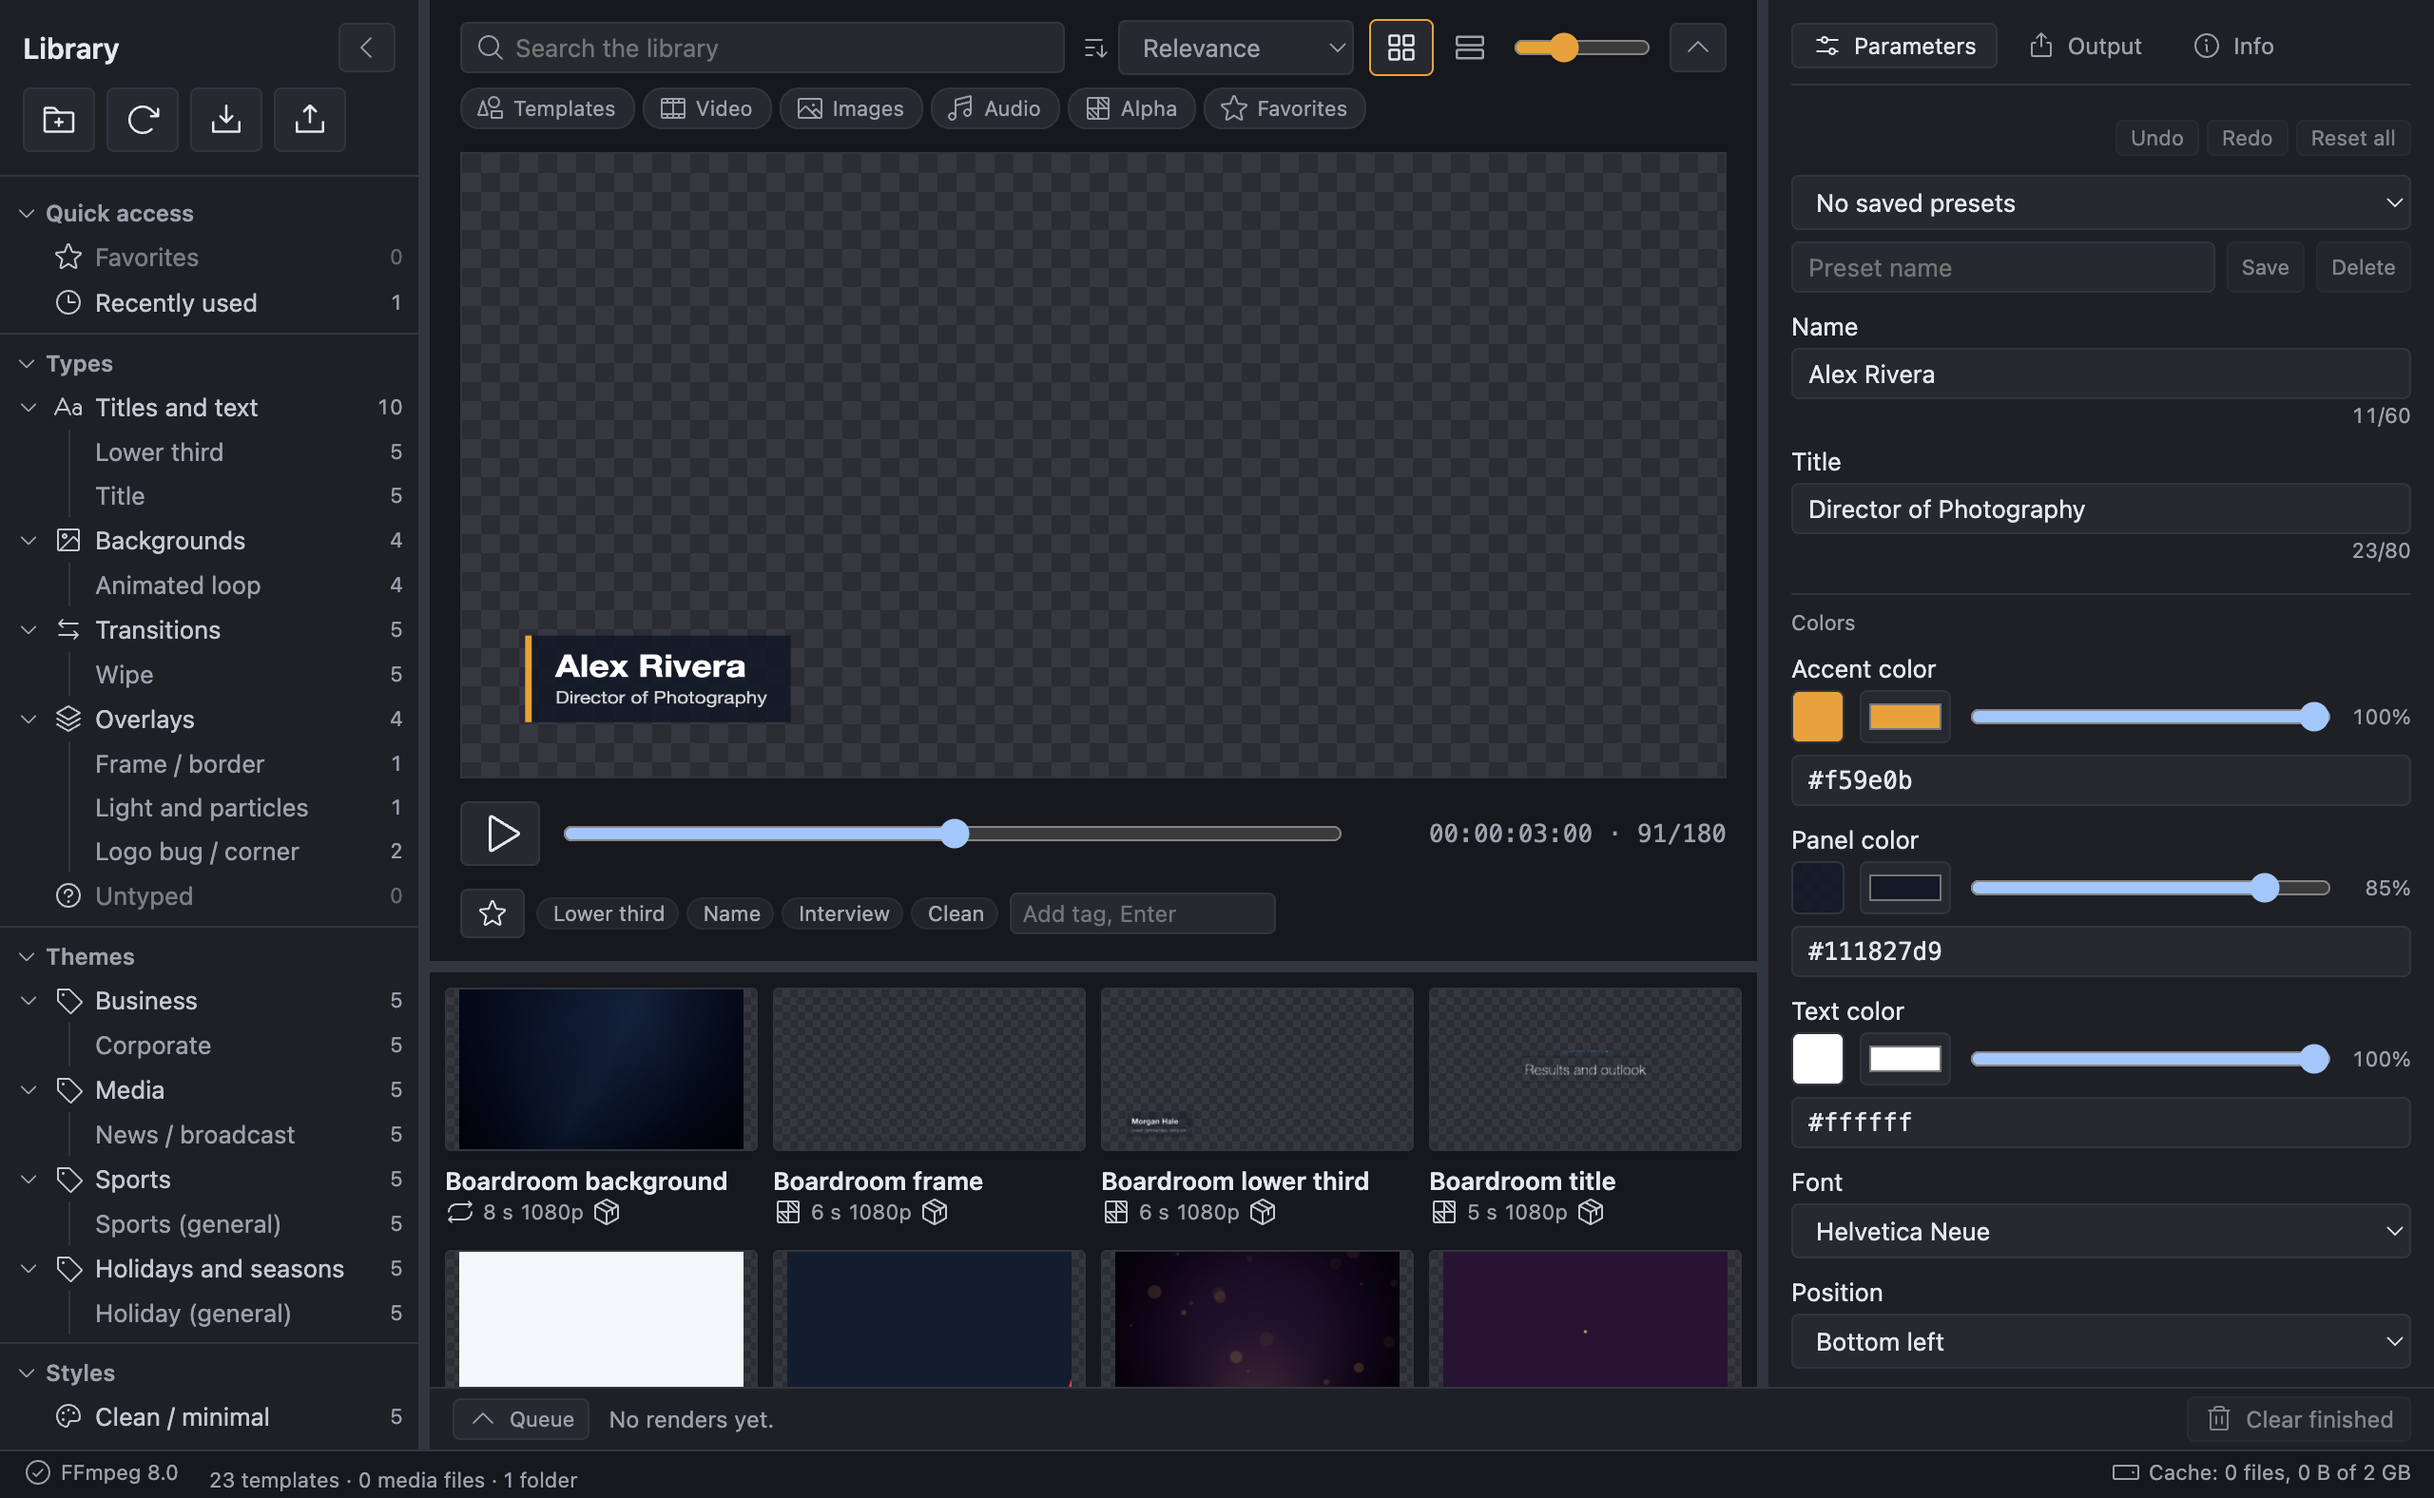
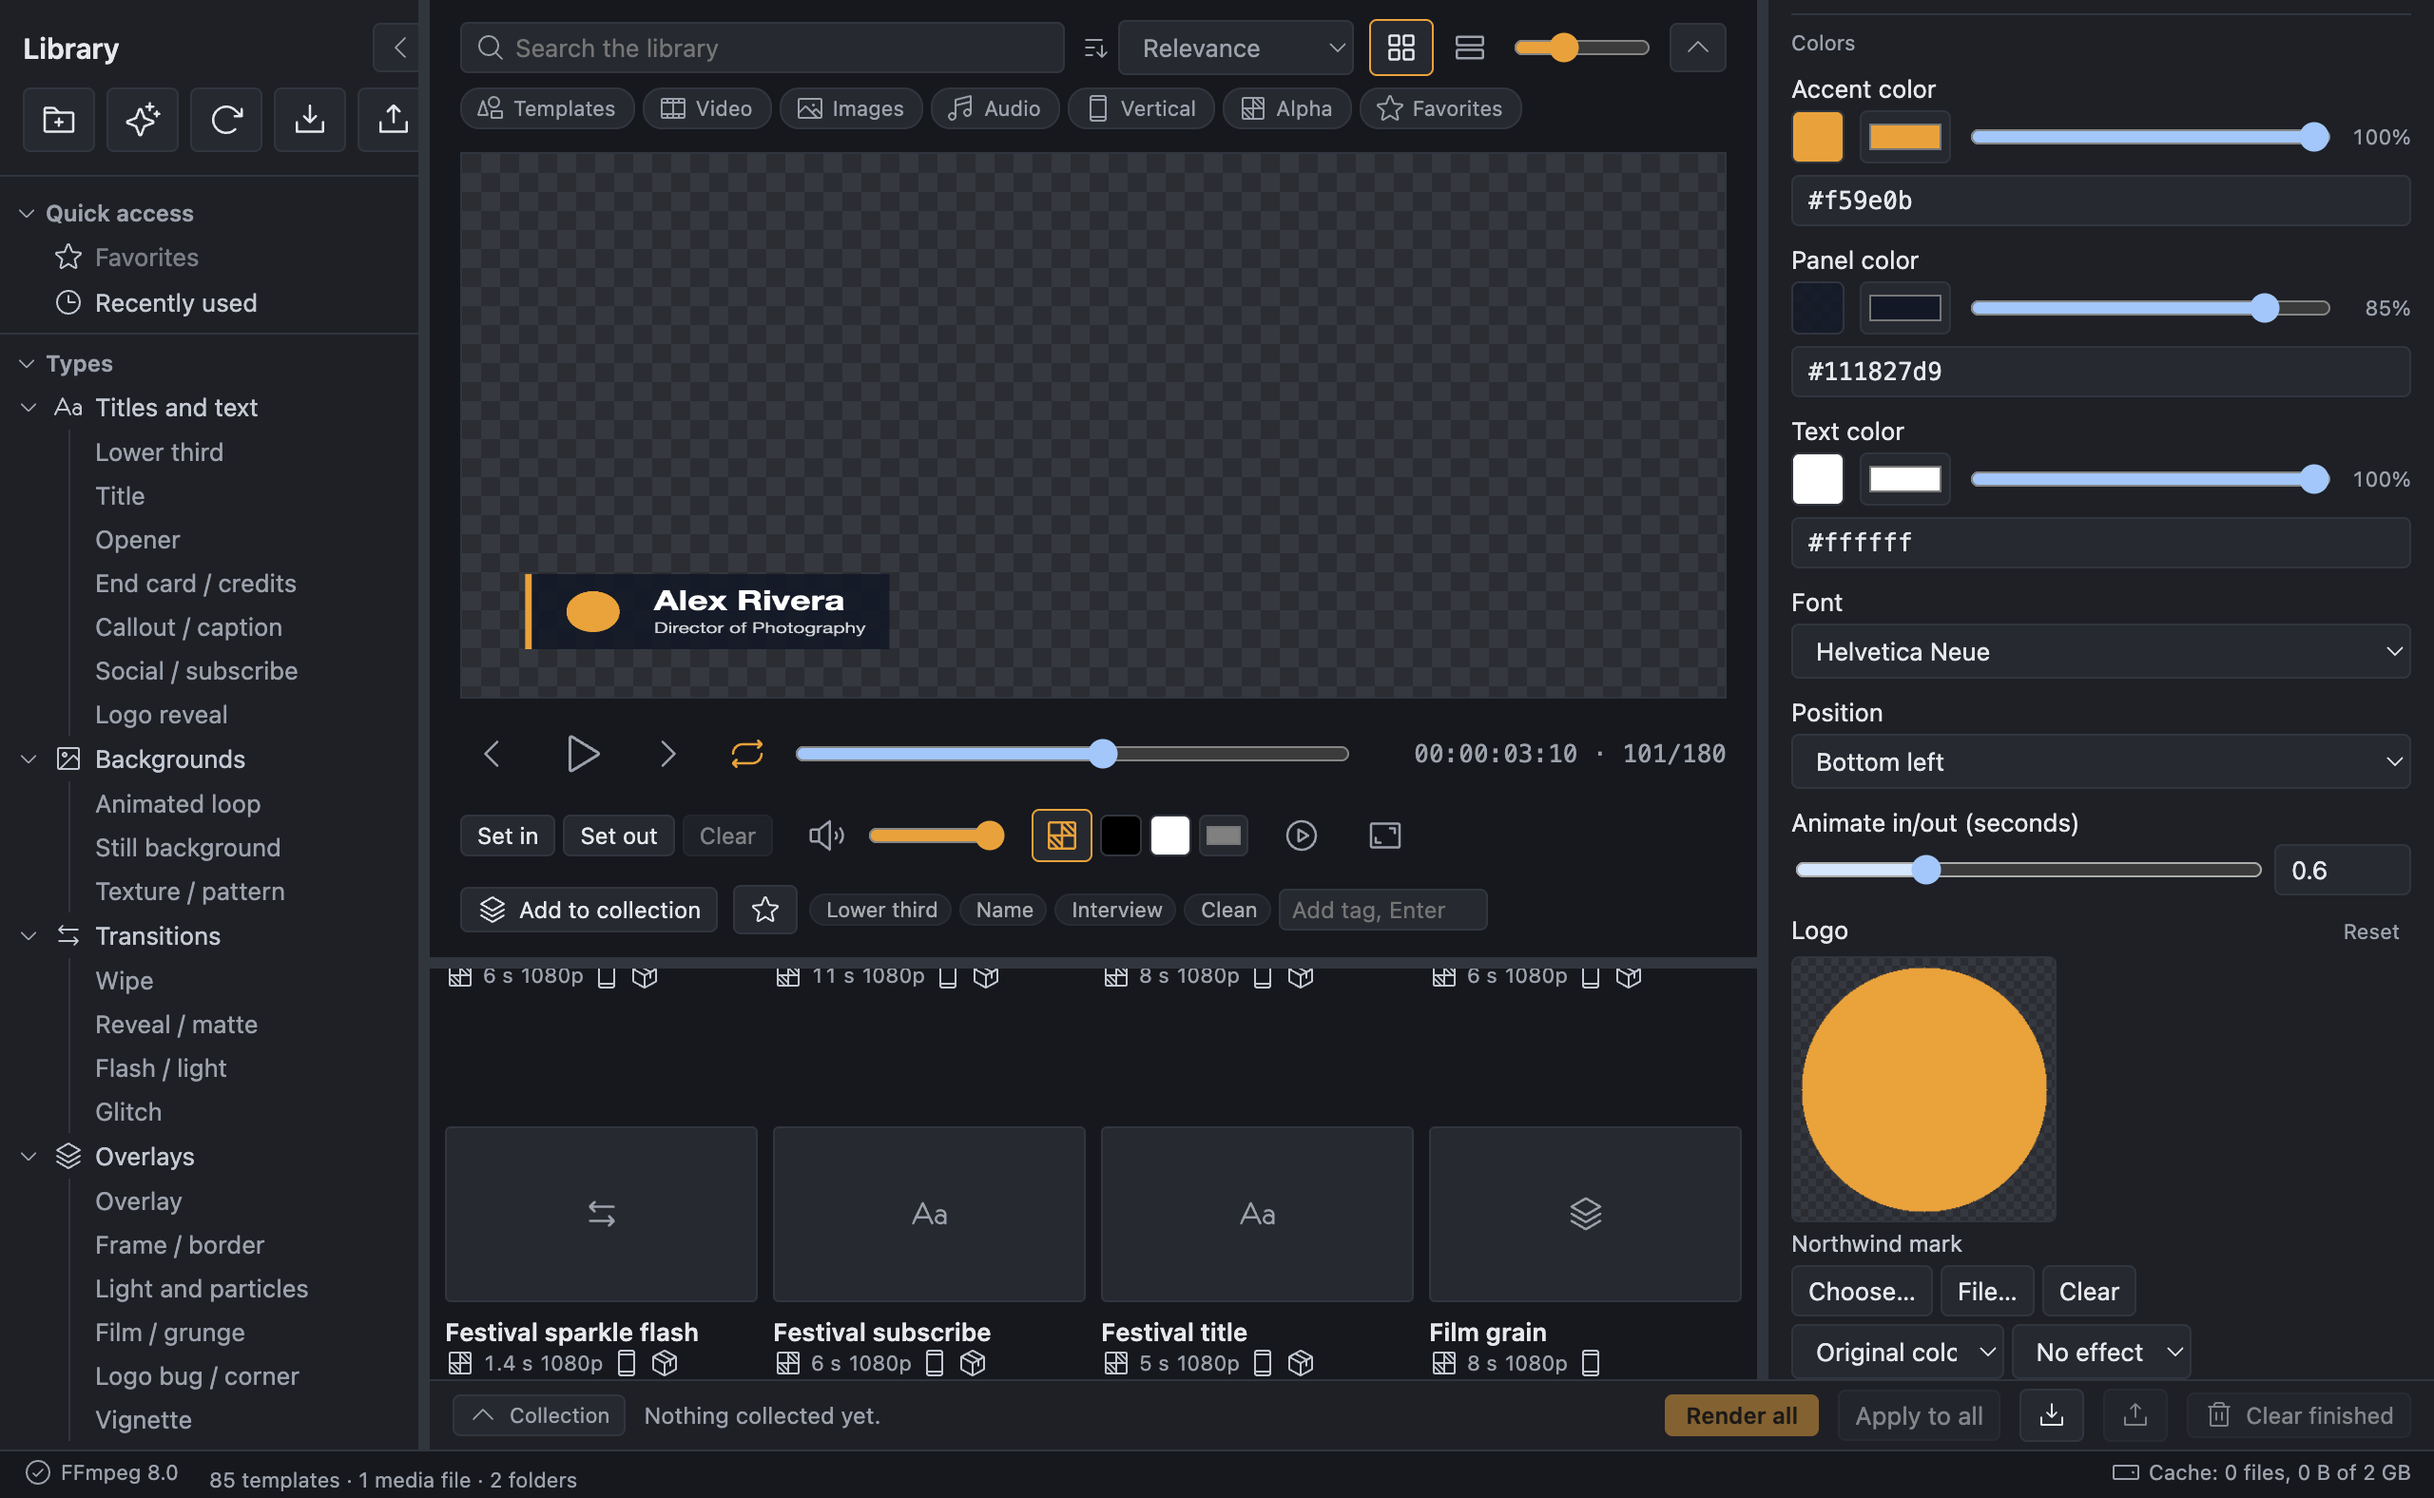
Parameters tab: the image slot field fills its width at the slot's shape
The picture was a fixed 96 x 54 tile alone at the left of a full-width
field. It now fills the field at the slot's own aspect ratio, capped at
140 px tall so a square badge is a square and a wide mark is wide, with
the image's name beneath and the buttons below. The empty state is the
same box, dashed, and clicking it opens the picker. The preview is the
still itself until the library has a poster for it, so it is never a
broken image. The doubled "Logo" group label over the "Logo" field is
gone from every slot. Screenshot retaken at the default inspector width.

Part of #22

diff --git a/src/renderer/inspector-params.ts b/src/renderer/inspector-params.ts
@@ -14,9 +14,10 @@ import { applyPreset, diffFromDefaults } from '../core/param-presets';
 import { saveParamsToEditedCard } from './inspector-output';
 import { resolveParams, type ResolvedParams } from '../core/params';
 import { addRecentColor } from '../core/recent-colors';
-import { IMAGE_EFFECTS, IMAGE_TREATMENTS, sanitizeImageValue, type ImageValue } from '../core/image-slot';
+import { templateDefaultSize } from '../core/aspect';
+import { boxFor, IMAGE_EFFECTS, IMAGE_TREATMENTS, sanitizeImageValue, type ImageValue, type SlotBoxes } from '../core/image-slot';
 import type { MediaEntry } from '../core/library-types';
-import { thumbUrlFor } from '../core/thumbnails';
+import { mediaUrlFor } from '../core/media-url';
 import { stageSetParams } from './stage';
 import { appState, selectedTemplate, slotNotes } from './store';
 
@@ -353,7 +354,7 @@ function inputFor(param: TemplateParameter): HTMLElement {
       return el;
     }
     case 'image':
-      return imageField(sanitizeImageValue(value) ?? null, onChange, { id: param.id, label: param.label });
+      return imageField(sanitizeImageValue(value) ?? null, onChange, { id: param.id, label: param.label, box: param.box });
   }
 }
 
@@ -382,14 +383,27 @@ function publishSlotNotes(): void {
   slotNotes.value = [...slotProblems.values()];
 }
 
-function imageField(initial: ImageValue | null, onChange: (v: ImageValue | null) => void, slot: { id: string; label: string }): HTMLElement {
+function imageField(initial: ImageValue | null, onChange: (v: ImageValue | null) => void, slot: { id: string; label: string; box: SlotBoxes }): HTMLElement {
   let value = initial;
   const wrap = document.createElement('div');
   wrap.className = 'image-field';
-  const thumb = document.createElement('span');
+  // The picture fills the field at the slot's own shape, so a wide badge and a square mark read as what they are.
+  const size = selectedTemplate.value ? templateDefaultSize(selectedTemplate.value.manifest) : { width: 1920, height: 1080 };
+  const box = boxFor(slot.box, size);
+  const ratio = Math.max(0.5, Math.min(4, (box.width * size.width) / Math.max(1, box.height * size.height)));
+  const thumb = document.createElement('button');
+  thumb.type = 'button';
   thumb.className = 'thumb checker';
+  thumb.style.aspectRatio = `${ratio.toFixed(3)} / 1`;
+  thumb.style.setProperty('--ar', ratio.toFixed(3));
+  thumb.setAttribute('aria-label', `${slot.label}: choose an image`);
+  const emptyLabel = document.createElement('span');
+  emptyLabel.className = 'empty-label';
+  emptyLabel.textContent = 'Choose an image…';
   const img = document.createElement('img');
   img.alt = '';
+  const caption = document.createElement('span');
+  caption.className = 'image-name';
   const actions = document.createElement('div');
   actions.className = 'image-actions';
   const choose = document.createElement('button');
@@ -442,7 +456,7 @@ function imageField(initial: ImageValue | null, onChange: (v: ImageValue | null)
   treat.append(treatment, tint, effect);
   const note = document.createElement('p');
   note.className = 'note image-note';
-  wrap.append(thumb, actions, picker, treat, note);
+  wrap.append(thumb, caption, actions, picker, treat, note);
 
   const entryFor = (id: string) => appState.value.index?.media.find((m) => m.id === id);
   const show = () => {
@@ -450,11 +464,16 @@ function imageField(initial: ImageValue | null, onChange: (v: ImageValue | null)
     thumb.replaceChildren();
     thumb.classList.toggle('empty', !value || !entry);
     if (value && entry) {
-      img.src = thumbUrlFor(value.id);
+      // The poster when the library has made one; the still itself otherwise, so the box is never a broken image.
+      img.src = entry.thumbnail ?? mediaUrlFor(value.id);
       thumb.append(img);
-      thumb.title = entry.name;
+      thumb.title = 'Choose another image';
+      caption.textContent = entry.name;
     } else {
+      emptyLabel.textContent = value ? 'Image not found — choose another…' : 'Choose an image…';
+      thumb.append(emptyLabel);
       thumb.title = value ? 'The chosen image is not in the library' : 'No image: the slot shows its fallback';
+      caption.textContent = value ? '' : 'No image; the slot shows its fallback';
     }
     clear.hidden = value === null;
     treat.hidden = value === null;
@@ -503,7 +522,7 @@ function imageField(initial: ImageValue | null, onChange: (v: ImageValue | null)
       t.className = 'thumb checker';
       const i = document.createElement('img');
       i.alt = '';
-      i.src = thumbUrlFor(m.id);
+      i.src = m.thumbnail ?? mediaUrlFor(m.id);
       t.append(i);
       const name = document.createElement('span');
       name.className = 'name';
@@ -517,13 +536,15 @@ function imageField(initial: ImageValue | null, onChange: (v: ImageValue | null)
       choices.append(li);
     }
   };
-  choose.addEventListener('click', () => {
+  const togglePicker = () => {
     picker.hidden = !picker.hidden;
     if (!picker.hidden) {
       listChoices();
       search.focus();
     }
-  });
+  };
+  choose.addEventListener('click', togglePicker);
+  thumb.addEventListener('click', togglePicker);
   search.addEventListener('input', listChoices);
   fromFile.addEventListener('click', () => fileInput.click());
   fileInput.addEventListener('change', () => {

diff --git a/src/renderer/styles.css b/src/renderer/styles.css
@@ -501,10 +501,15 @@ button > .icon + .label, button > .icon-wrap + .label { margin-left: 6px; }
 .color-field .recent-swatch:hover { border-color: var(--accent); }
 .color-field .hex.error { border-color: var(--danger); }
 /* Image slots (milestone 22): the picked still, its picker and its treatment. */
-.image-field { display: grid; gap: var(--space-2); }
-.image-field > .thumb { width: 96px; height: 54px; border: 1px solid var(--border); border-radius: var(--radius-control); overflow: hidden; display: flex; align-items: center; justify-content: center; background-size: 8px 8px; background-position: 0 0, 0 4px, 4px -4px, -4px 0; }
-.image-field > .thumb.empty { background-image: none; background-color: var(--panel-2); }
+.image-field { display: grid; gap: var(--space-1); }
+/* The picture fills the field at the slot's own shape (inline aspect-ratio), capped so a tall slot does not take the tab. */
+.image-field > .thumb { width: min(100%, calc(140px * var(--ar, 1.78))); height: auto; padding: 0; justify-self: start; border: 1px solid var(--border); border-radius: var(--radius-control); overflow: hidden; display: flex; align-items: center; justify-content: center; background-size: 8px 8px; background-position: 0 0, 0 4px, 4px -4px, -4px 0; cursor: pointer; }
+.image-field > .thumb:hover { border-color: var(--accent); }
+/* Empty: the same box is the place to choose, not a small grey tile. */
+.image-field > .thumb.empty { background-image: none; background-color: var(--panel-2); border-style: dashed; color: var(--muted); font-size: var(--font-secondary); }
+.image-field > .thumb.empty:hover { color: var(--text); }
 .image-field .thumb img { width: 100%; height: 100%; object-fit: contain; display: block; }
+.image-field .image-name { color: var(--text-secondary); font-size: var(--font-secondary); overflow: hidden; text-overflow: ellipsis; white-space: nowrap; min-height: 1.2em; }
 .image-field .image-actions { display: flex; gap: var(--space-1); flex-wrap: wrap; }
 .image-field .image-actions button[hidden] { display: none; }
 .image-field .image-picker { display: grid; gap: var(--space-1); border: 1px solid var(--border); border-radius: var(--radius-control); padding: var(--space-1); }
